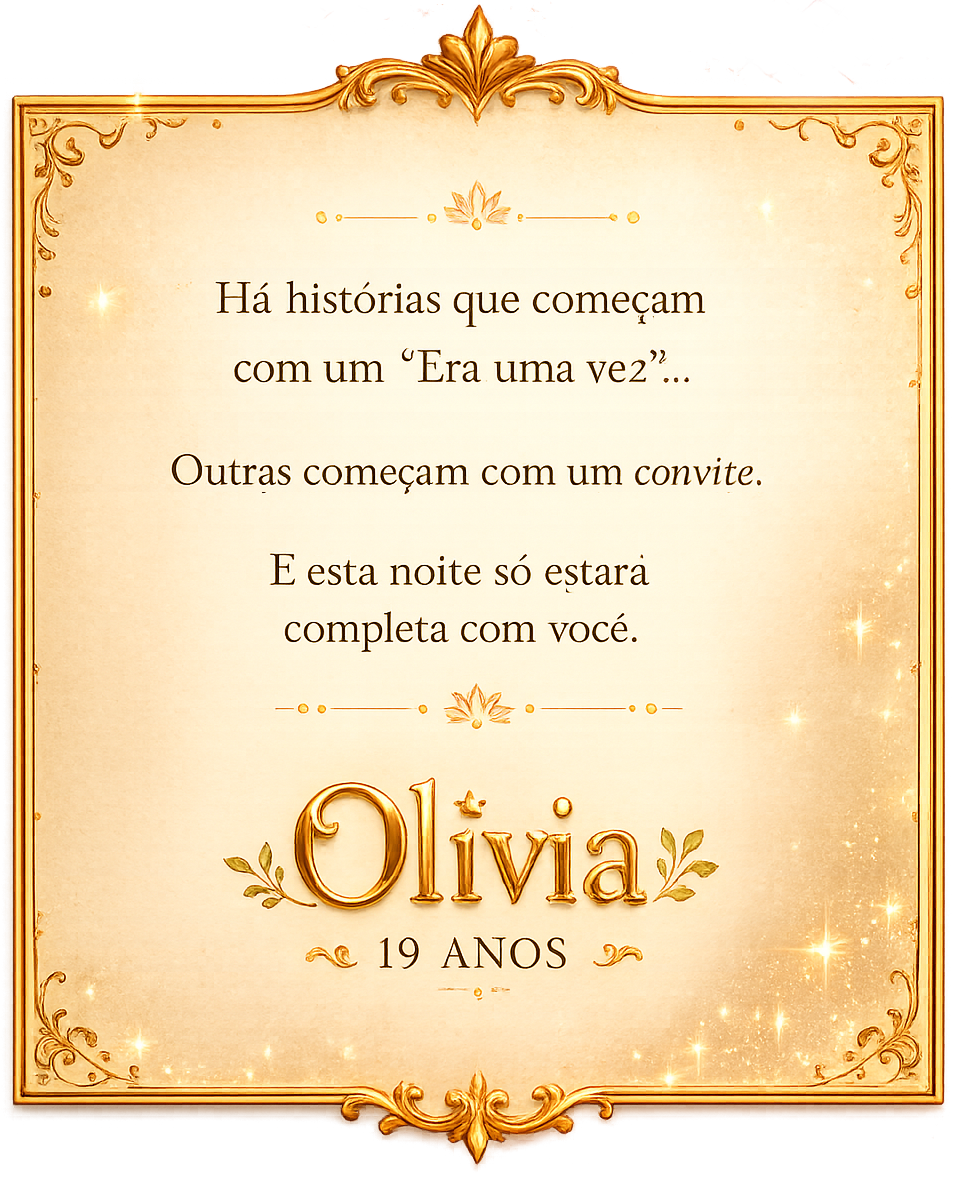
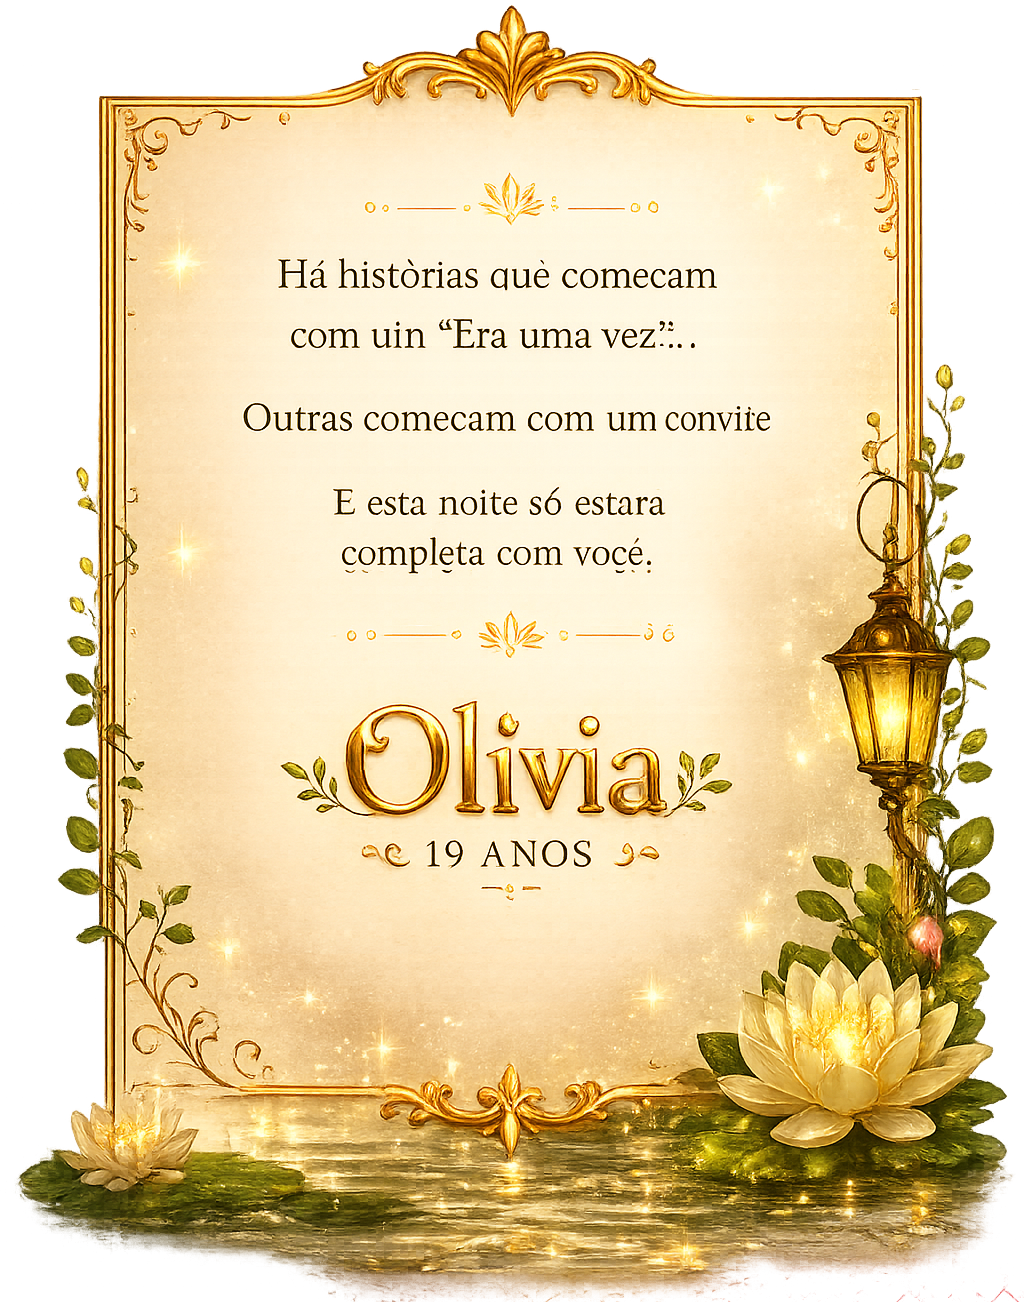
Atualiza cartinha calendario e musica tema

diff --git a/app/globals.css b/app/globals.css
@@ -208,7 +208,7 @@ input {
 }
 
 .story-card-art-wrap {
-  width: min(94vw, 42rem, 68svh);
+  width: min(94vw, 42rem, 70svh);
   filter:
     drop-shadow(0 0 1.1rem rgba(199, 165, 91, 0.2))
     drop-shadow(0 1.2rem 2.8rem rgba(7, 21, 15, 0.56));
@@ -231,10 +231,11 @@ input {
 
 .date-time-scene {
   position: relative;
-  overflow: hidden;
-  background:
-    radial-gradient(ellipse at 52% 58%, rgba(199, 165, 91, 0.14), transparent 65%),
-    rgba(7, 21, 15, 0.62);
+  display: flex;
+  flex-direction: column;
+  align-items: center;
+  overflow: visible;
+  background: transparent;
   isolation: isolate;
 }
 
@@ -242,11 +243,13 @@ input {
   content: "";
   pointer-events: none;
   position: absolute;
-  inset: 0;
-  z-index: 1;
+  inset: 4% -7% 24%;
+  z-index: -1;
   background:
-    radial-gradient(ellipse at 49% 54%, transparent 0 45%, rgba(7, 21, 15, 0.2) 74%, rgba(7, 21, 15, 0.7) 100%),
-    linear-gradient(180deg, rgba(7, 21, 15, 0.18), rgba(7, 21, 15, 0.06) 42%, rgba(7, 21, 15, 0.34));
+    radial-gradient(ellipse at center, rgba(7, 21, 15, 0.62), rgba(7, 21, 15, 0.28) 56%, transparent 74%),
+    radial-gradient(ellipse at 58% 58%, rgba(199, 165, 91, 0.12), transparent 64%);
+  filter: blur(18px);
+  opacity: 0.78;
 }
 
 .date-time-scene-image {
@@ -258,6 +261,22 @@ input {
     saturate(0.88)
     brightness(0.84)
     contrast(1.04);
+  -webkit-mask-image:
+    linear-gradient(90deg, transparent 0%, #000 9%, #000 91%, transparent 100%),
+    linear-gradient(180deg, transparent 0%, #000 7%, #000 88%, transparent 100%);
+  -webkit-mask-composite: source-in;
+  mask-image:
+    linear-gradient(90deg, transparent 0%, #000 9%, #000 91%, transparent 100%),
+    linear-gradient(180deg, transparent 0%, #000 7%, #000 88%, transparent 100%);
+  mask-composite: intersect;
+}
+
+.date-time-copy {
+  position: relative;
+  z-index: 2;
+  width: min(100%, 48rem);
+  margin-top: 1.25rem;
+  text-align: center;
 }
 
 .venue-address {
@@ -266,6 +285,36 @@ input {
   text-shadow:
     0 0 1rem rgba(199, 165, 91, 0.2),
     0 1rem 2.3rem rgba(7, 21, 15, 0.72);
+}
+
+.detail-gold-cord {
+  position: relative;
+  display: block;
+  width: min(16rem, 58vw);
+  height: 1px;
+  margin: 0 auto 1.1rem;
+  background: linear-gradient(90deg, transparent, rgba(199, 165, 91, 0.9), transparent);
+}
+
+.detail-gold-cord::before,
+.detail-gold-cord::after {
+  content: "";
+  position: absolute;
+  top: 50%;
+  width: 0.35rem;
+  height: 0.35rem;
+  border: 1px solid rgba(199, 165, 91, 0.86);
+  border-radius: 999px;
+  background: rgba(199, 165, 91, 0.22);
+  transform: translateY(-50%);
+}
+
+.detail-gold-cord::before {
+  left: 42%;
+}
+
+.detail-gold-cord::after {
+  right: 42%;
 }
 
 .detail-card {
@@ -629,17 +678,21 @@ input {
   }
 
   .story-card-art-wrap {
-    width: min(95vw, 65svh);
+    width: min(96vw, 68svh);
   }
 
   .date-time-scene-wrap {
-    width: min(77vw, 28rem);
+    width: min(84vw, 28rem);
   }
 
   .date-time-scene-image {
-    min-height: 13.6rem;
+    min-height: 13.2rem;
     object-fit: cover;
     object-position: center;
+  }
+
+  .date-time-copy {
+    margin-top: 0.85rem;
   }
 
   .story-silhouette svg {

diff --git a/components/sections/DetailsSection.tsx b/components/sections/DetailsSection.tsx
@@ -44,13 +44,13 @@ export function DetailsSection() {
               unoptimized
               width={1536}
             />
+            <div className="date-time-copy">
+              <span aria-hidden className="detail-gold-cord" />
+              <h3 className="venue-address title-script soft-text text-2xl leading-tight text-ivory sm:text-4xl">
+                Rua Joaquim da Silva Frade, 128 - Parque Renato Maia, Guarulhos
+              </h3>
+            </div>
           </motion.div>
-        </Reveal>
-
-        <Reveal className="mt-7 text-center" delay={0.16}>
-          <h3 className="venue-address title-script soft-text text-2xl leading-tight text-ivory sm:text-4xl">
-            Rua Joaquim da Silva Frade, 128 - Parque Renato Maia, Guarulhos
-          </h3>
         </Reveal>
 
         <Reveal className="mt-8 flex justify-center" delay={0.18}>

diff --git a/components/sections/WelcomeStory.tsx b/components/sections/WelcomeStory.tsx
@@ -17,11 +17,11 @@ export function WelcomeStory() {
           alt=""
           className="story-card-art"
           draggable={false}
-          height={1178}
+          height={1302}
           sizes="(max-width: 768px) 94vw, 42rem"
           src="/images/cartinha.png"
           unoptimized
-          width={954}
+          width={1024}
         />
       </Reveal>
     </section>